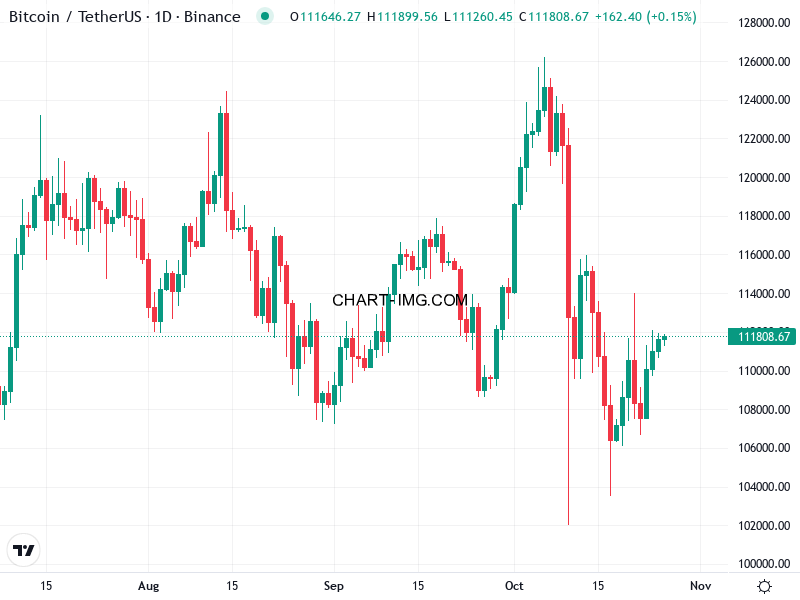
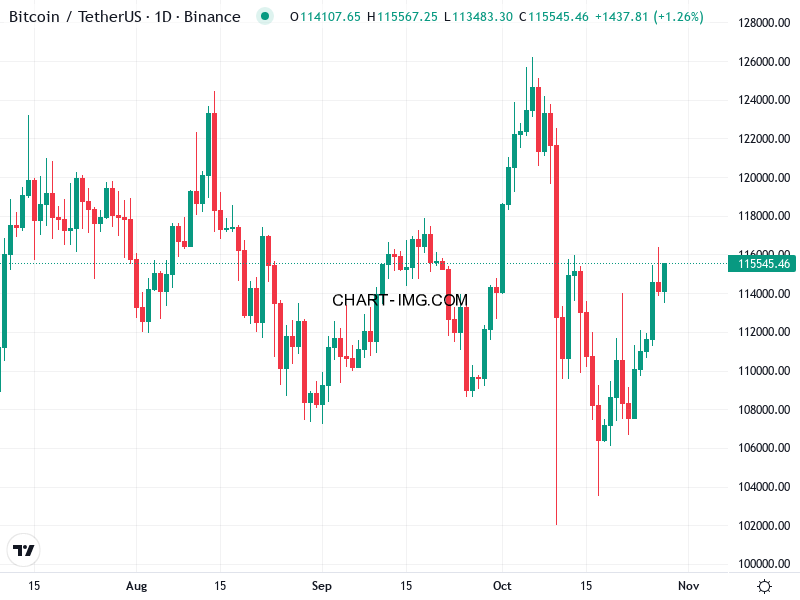
Update chart images and fix Blockscout MCP integration
- Updated ETH, BTC, and SOL chart images with latest data from Chart-IMG API
- Fixed Blockscout MCP API integration with proper SSE parsing
- Added pagination support to fetch all transactions (was stuck at 10)
- Added debug logging for better troubleshooting
- Increased default transaction limit to 50

diff --git a/server/agents/blockscout_agent.py b/server/agents/blockscout_agent.py
@@ -18,6 +18,7 @@ class BlockscoutAgent:
     def __init__(self):
         """Initialize the Blockscout MCP agent"""
         self.base_url = self.MCP_URL
+        print(f"🔗 Blockscout MCP URL: {self.MCP_URL}")
         self.client = httpx.Client(timeout=60.0)
     
     def _call_mcp(self, method: str, params: Dict[str, Any]) -> Dict[str, Any]:
@@ -32,6 +33,7 @@ class BlockscoutAgent:
             Response from the MCP server
         """
         try:
+            print(f"📡 Calling Blockscout MCP: {method} with params: {params}")
             payload = {
                 "jsonrpc": "2.0",
                 "method": "tools/call",
@@ -44,7 +46,8 @@ class BlockscoutAgent:
             
             headers = {
                 "Content-Type": "application/json",
-                "Accept": "application/json, text/event-stream"
+                "Accept": "application/json, text/event-stream",
+                "Accept-Encoding": "utf-8"
             }
             
             response = self.client.post(
@@ -55,8 +58,11 @@ class BlockscoutAgent:
                 timeout=60.0
             )
             
+            print(f"📥 Blockscout MCP Response: {response.status_code}")
+            
             if response.status_code != 200:
                 print(f"❌ HTTP Error: {response.status_code}")
+                print(f"Response: {response.text[:500]}")
                 return {}
             
             # Parse SSE stream
@@ -91,12 +97,17 @@ class BlockscoutAgent:
         """
         lines = text.split('\n')
         result_data = None
+        last_result = None
         
         for line in lines:
             if line.startswith('data: '):
                 data_str = line[6:]  # Remove 'data: ' prefix
                 try:
                     data = json.loads(data_str)
+                    
+                    # Track the last complete result (with result field)
+                    if "result" in data:
+                        last_result = data
                     
                     # Look for result with content
                     if "result" in data and "content" in data["result"]:
@@ -110,6 +121,11 @@ class BlockscoutAgent:
                 except json.JSONDecodeError:
                     pass
         
+        # Return the result field from the last complete response
+        if last_result and "result" in last_result:
+            return last_result["result"]
+        
+        # Fallback to result_data if available
         if result_data and "result" in result_data:
             return result_data["result"]
         
@@ -180,7 +196,7 @@ class BlockscoutAgent:
         limit: Optional[int] = None
     ) -> List[Dict[str, Any]]:
         """
-        Get transactions for an address
+        Get transactions for an address with pagination support
         
         Args:
             chain_id: Chain ID
@@ -195,30 +211,62 @@ class BlockscoutAgent:
             "address": address
         }
         
-        if limit:
-            params["limit"] = limit
+        # Blockscout MCP default limit is 20, but we can set it higher
+        params["limit"] = limit if limit else 50  # Default to 50 to get more data
         
         result = self._call_mcp("get_transactions_by_address", params)
+        
+        all_transactions = []
         
         if "content" in result and result["content"]:
             try:
                 content_text = result["content"][0]["text"]
                 content_data = json.loads(content_text)
                 
+                print(f"📊 Retrieved {len(content_data) if isinstance(content_data, list) else 'unknown'} transactions from Blockscout")
+                
                 # Handle both direct array and nested data structure
                 if isinstance(content_data, list):
-                    return content_data
-                elif isinstance(content_data, dict) and "data" in content_data:
-                    # MCP returns data nested in a "data" field
-                    data = content_data["data"]
-                    if isinstance(data, list):
-                        return data
-                    elif isinstance(data, dict) and "items" in data:
-                        return data["items"]
+                    all_transactions = content_data
+                elif isinstance(content_data, dict):
+                    # Check for pagination info
+                    if "data" in content_data:
+                        data = content_data["data"]
+                        if isinstance(data, list):
+                            all_transactions = data
+                        elif isinstance(data, dict) and "items" in data:
+                            all_transactions = data["items"]
+                    
+                    # Handle pagination - get more transactions if available
+                    if "pagination" in content_data and "next_call" in content_data["pagination"]:
+                        print(f"📄 Pagination detected, fetching more transactions...")
+                        next_call = content_data["pagination"]["next_call"]
+                        
+                        # Call paginated endpoint to get remaining transactions
+                        paginated_params = next_call.get("params", {})
+                        # Adjust limit for paginated call
+                        if limit and len(all_transactions) < limit:
+                            paginated_params["limit"] = limit - len(all_transactions)
+                        
+                        paginated_result = self._call_mcp(next_call["tool_name"], paginated_params)
+                        
+                        if "content" in paginated_result and paginated_result["content"]:
+                            paginated_text = paginated_result["content"][0]["text"]
+                            paginated_data = json.loads(paginated_text)
+                            
+                            if isinstance(paginated_data, list):
+                                all_transactions.extend(paginated_data)
+                            elif isinstance(paginated_data, dict) and "data" in paginated_data:
+                                data = paginated_data["data"]
+                                if isinstance(data, list):
+                                    all_transactions.extend(data)
+                        
+                        print(f"📊 Total transactions after pagination: {len(all_transactions)}")
                 
-                return []
+                return all_transactions
             except (json.JSONDecodeError, KeyError, TypeError) as e:
                 print(f"❌ Error parsing transactions: {e}")
+                print(f"Content text: {content_text[:200] if 'content_text' in locals() else 'N/A'}")
                 return []
         
         return []
@@ -245,8 +293,8 @@ class BlockscoutAgent:
             "address": address
         }
         
-        if limit:
-            params["limit"] = limit
+        # Blockscout MCP default limit is 20, but we can set it higher  
+        params["limit"] = limit if limit else 50  # Default to 50 to get more data
         
         result = self._call_mcp("get_token_transfers_by_address", params)
         

diff --git a/server/api/chat_handler_new.py b/server/api/chat_handler_new.py
@@ -51,7 +51,11 @@ Your capabilities:
 - **explain_transaction**: Explain how blockchain transactions work in general
 - **General conversation**: Answer questions naturally
 
-IMPORTANT: For transaction requests (send/swap), you prepare the transaction - users sign it with their wallet. Always call the function! When users provide a transaction hash (0x...), ALWAYS use lookup_transaction to look it up! When users ask about an address or want on-chain analytics, use analyze_address!"""
+IMPORTANT: 
+- For transaction requests (send/swap), you prepare the transaction - users sign it with their wallet. Always call the function! 
+- When users provide a 66-character transaction hash (0x followed by 64 hex characters), ALWAYS use lookup_transaction to look it up!
+- When users provide a 42-character Ethereum address (0x followed by 40 hex characters) or ask to "analyze/analyse" an address, ALWAYS use analyze_address!
+- The key difference: Address = 42 chars (0x + 40), Transaction Hash = 66 chars (0x + 64)."""
 
     # Combine all available tools
     all_tools = ACTION_TOOLS + YIELD_TOOLS
@@ -271,7 +275,6 @@ IMPORTANT: For transaction requests (send/swap), you prepare the transaction - u
                 
                 # Use Ethereum Sepolia testnet
                 chain_id = "11155111"  # Ethereum Sepolia
-                
                 print(f"🔍 Looking up transaction {transaction_hash} on Sepolia...")
                 
                 # Initialize Blockscout agent
@@ -558,8 +561,9 @@ IMPORTANT: For transaction requests (send/swap), you prepare the transaction - u
                     # Get comprehensive address info
                     address_info = blockscout_agent.get_address_info(chain_id, address)
                     tokens = blockscout_agent.get_tokens_by_address(chain_id, address)
-                    transactions = blockscout_agent.get_transactions_by_address(chain_id, address, limit=20)  # Get more for metrics
-                    token_transfers = blockscout_agent.get_token_transfers_by_address(chain_id, address, limit=20)
+                    # Request 50 transactions to get all available data
+                    transactions = blockscout_agent.get_transactions_by_address(chain_id, address, limit=50)  
+                    token_transfers = blockscout_agent.get_token_transfers_by_address(chain_id, address, limit=50)
                     
                     # Build comprehensive response
                     response_text = f"## 📊 **Address Analytics**\n\n"
@@ -747,7 +751,7 @@ IMPORTANT: For transaction requests (send/swap), you prepare the transaction - u
                         "tools_used": tools_used
                     }
                 
-                chain_id = "11155111"
+                chain_id = "11155111"  # Ethereum Sepolia
                 blockscout_agent = BlockscoutAgent()
                 
                 try:
@@ -755,7 +759,7 @@ IMPORTANT: For transaction requests (send/swap), you prepare the transaction - u
                     
                     if not tokens or len(tokens) == 0:
                         return {
-                            "response": f"No ERC-20 tokens found for address {address} on Sepolia.",
+                            "response": f"No ERC-20 tokens found for address {address} on Ethereum Mainnet.",
                             "tools_used": tools_used
                         }
                     
@@ -797,7 +801,7 @@ IMPORTANT: For transaction requests (send/swap), you prepare the transaction - u
                         "tools_used": tools_used
                     }
                 
-                chain_id = "11155111"
+                chain_id = "11155111"  # Ethereum Sepolia
                 blockscout_agent = BlockscoutAgent()
                 
                 try:
